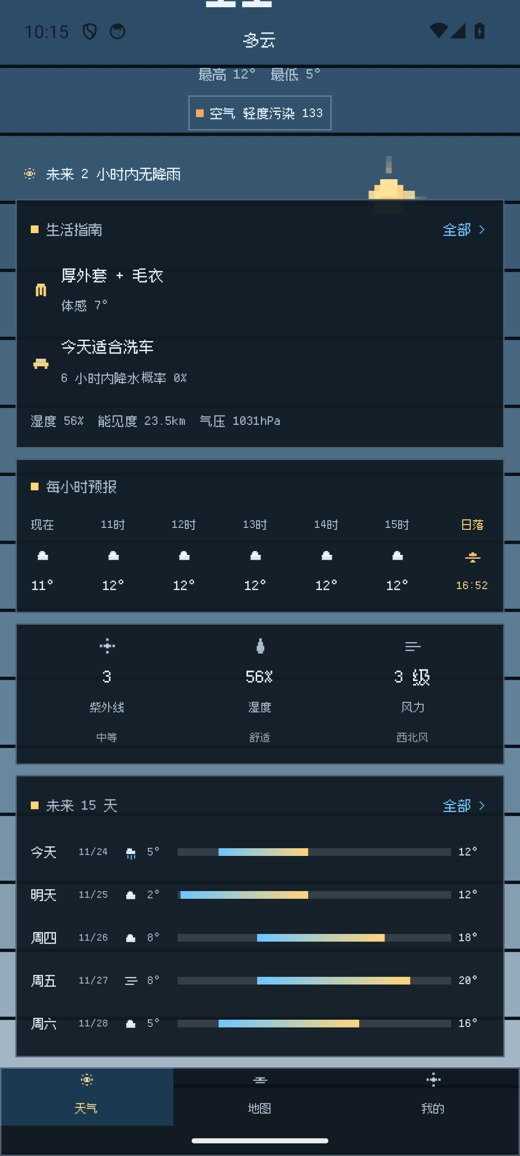
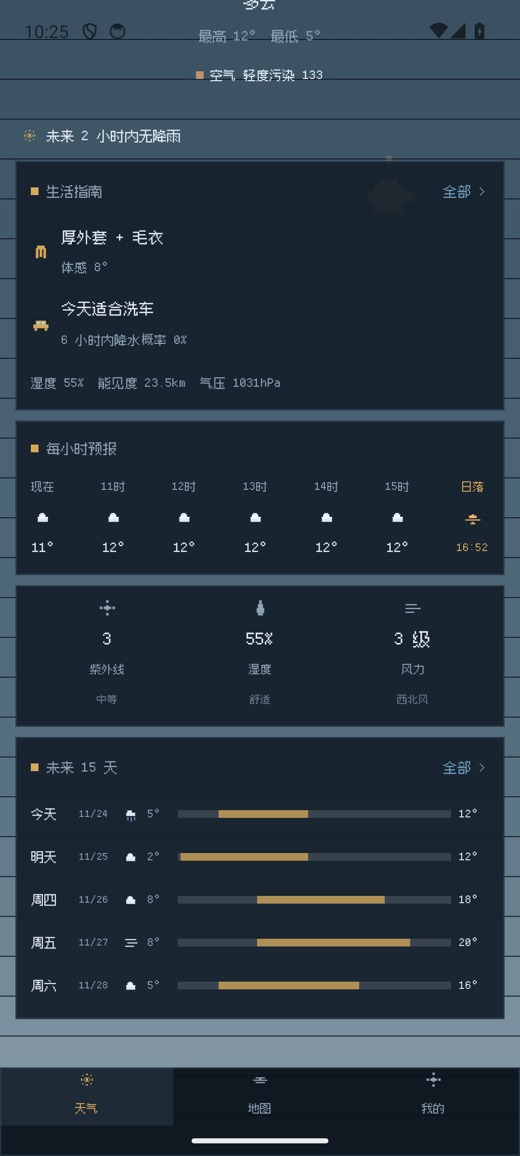
v0.11.1: 重做像素配色——单一强调色、低饱和语义色、去掉荧光青描边

Changed region(s): [[0.0, 0.0, 1.0, 1.0], [0.0, 0.2803, 0.0308, 0.3114]]

diff --git a/app/src/main/java/com/yoho/weather/PixelWeatherScreen.kt b/app/src/main/java/com/yoho/weather/PixelWeatherScreen.kt
@@ -29,7 +29,7 @@ import androidx.compose.ui.unit.sp
 
 @Composable
 fun PixelSky(group: String, isDay: Boolean, cloud: Int, warm: Float) {
-    val colors = skyColors(group, isDay)
+    val colors = pxSkyColors(group, isDay)
     val anim = rememberInfiniteTransition(label = "pxsky")
     val t by anim.animateFloat(
         initialValue = 0f,
@@ -42,7 +42,7 @@ fun PixelSky(group: String, isDay: Boolean, cloud: Int, warm: Float) {
         val w = size.width
         val h = size.height
         val cell = (w / 90f).coerceAtLeast(3f)   // 像素块尺寸
-        val bands = 18
+        val bands = 30
         val top = colors.first()
         val mid = colors[1]
         val bottom = colors.last()
@@ -64,7 +64,7 @@ fun PixelSky(group: String, isDay: Boolean, cloud: Int, warm: Float) {
                 val dc = lerp(if (f < 0.65f) lerp(top, mid, (f - 0.02f) / 0.65f) else c, c, 0.5f)
                 var x = if (i % 2 == 0) 0f else cell
                 while (x < w) {
-                    drawRect(dc.copy(alpha = 0.35f), Offset(x, y), Size(cell, cell))
+                    drawRect(dc.copy(alpha = 0.20f), Offset(x, y), Size(cell, cell))
                     x += cell * 2
                 }
             }
@@ -72,12 +72,12 @@ fun PixelSky(group: String, isDay: Boolean, cloud: Int, warm: Float) {
 
         // 暖光：靠近日落时底部泛橘
         if (warm > 0.02f) {
-            val warmColor = Color(0xFFFF9F43)
+            val warmColor = Color(0xFFD8A85A)
             var y = h * 0.55f
             var a = 0f
             while (y < h) {
                 a += 0.035f
-                drawRect(warmColor.copy(alpha = a * warm * 0.5f), Offset(0f, y), Size(w, h / bands))
+                drawRect(warmColor.copy(alpha = a * warm * 0.22f), Offset(0f, y), Size(w, h / bands))
                 y += h / bands
             }
         }
@@ -85,22 +85,22 @@ fun PixelSky(group: String, isDay: Boolean, cloud: Int, warm: Float) {
         // 太阳 / 月亮：像素方块 + 十字光芒
         val sx = w * 0.72f
         val sy = if (isDay) h * 0.16f else h * 0.13f
-        val sunColor = if (isDay) Color(0xFFFFD479) else Color(0xFFE7F0FF)
+        val sunColor = if (isDay) Color(0xFFD8A85A) else Color(0xFFDCE6F2)
         fun block(x: Float, y: Float, n: Int = 1, c: Color = sunColor, alpha: Float = 1f) {
             drawRect(c.copy(alpha = alpha), Offset(x, y), Size(cell * n, cell * n))
         }
         if (isDay) {
             block(sx, sy, 5)
-            block(sx + cell, sy - cell, 3, Color(0xFFFFE29B))
-            block(sx - cell, sy + cell, 2, Color(0xFFFFE29B), 0.9f)
-            block(sx + cell * 5, sy + cell, 2, Color(0xFFFFE29B), 0.85f)
+            block(sx + cell, sy - cell, 3, Color(0xFFE0BC7E))
+            block(sx - cell, sy + cell, 2, Color(0xFFE0BC7E), 0.9f)
+            block(sx + cell * 5, sy + cell, 2, Color(0xFFE0BC7E), 0.85f)
             for (i in 1..3) {
-                block(sx + cell * 2, sy - cell * (i + 1) - cell, 1, Color(0xFFFFE29B), 0.55f - i * 0.12f)
-                block(sx + cell * 2, sy + cell * 6 + (i - 1) * cell, 1, Color(0xFFFFE29B), 0.5f - i * 0.12f)
-                block(sx + cell * 6 + (i - 1) * cell, sy + cell * 2, 1, Color(0xFFFFE29B), 0.5f - i * 0.12f)
+                block(sx + cell * 2, sy - cell * (i + 1) - cell, 1, Color(0xFFE0BC7E), 0.55f - i * 0.12f)
+                block(sx + cell * 2, sy + cell * 6 + (i - 1) * cell, 1, Color(0xFFE0BC7E), 0.5f - i * 0.12f)
+                block(sx + cell * 6 + (i - 1) * cell, sy + cell * 2, 1, Color(0xFFE0BC7E), 0.5f - i * 0.12f)
             }
         } else {
-            block(sx, sy, 5, Color(0xFFE7F0FF))
+            block(sx, sy, 5, Color(0xFFDCE6F2))
             block(sx + cell * 3, sy + cell, 2, Color(0xFF0A121A))
             block(sx + cell, sy + cell * 3, 2, Color(0xFF0A121A))
             // 星星
@@ -233,10 +233,10 @@ fun PixelWeatherScreen(
                             verticalAlignment = Alignment.CenterVertically
                         ) {
                             val tone = when {
-                                air.aqi <= 50 -> Color(0xFF7BE495)
-                                air.aqi <= 100 -> Color(0xFFFFD479)
-                                air.aqi <= 150 -> Color(0xFFFFA45C)
-                                else -> Color(0xFFFF7B7B)
+                                air.aqi <= 50 -> Color(0xFF93B49C)
+                                air.aqi <= 100 -> Color(0xFFC9B27A)
+                                air.aqi <= 150 -> Color(0xFFBE9070)
+                                else -> Color(0xFFB87A76)
                             }
                             Box(Modifier.size(6.dp).background(tone))
                             Spacer(Modifier.width(5.dp))
@@ -374,7 +374,7 @@ fun PixelWeatherScreen(
                                         Modifier
                                             .weight(((d.hi - d.lo).toFloat() / span).coerceAtLeast(0.08f))
                                             .fillMaxHeight()
-                                            .background(Brush.horizontalGradient(listOf(PxBlue, PxAccent)))
+                                            .background(PxAccent.copy(alpha = 0.75f))
                                     )
                                     Spacer(Modifier.weight(((hi - d.hi).toFloat() / span).coerceAtLeast(0f) + 0.01f))
                                 }

diff --git a/app/src/main/java/com/yoho/weather/PixelUi.kt b/app/src/main/java/com/yoho/weather/PixelUi.kt
@@ -24,14 +24,14 @@ import androidx.compose.ui.unit.sp
 val PixelFont = FontFamily(Font(R.font.ark_pixel))
 
 // 像素风调色板：深底 + 荧光描边，拒绝圆角与模糊
-val PxPanel = Color(0xF2101A24)
-val PxPanelDeep = Color(0xE60A121A)
-val PxBorder = Color(0xFF7FD4FF)
-val PxBorderDim = Color(0x66A8C6DD)
-val PxText = Color(0xFFEAF4FF)
-val PxTextDim = Color(0xD8C6D8E8)
-val PxAccent = Color(0xFFFFD479)
-val PxBlue = Color(0xFF6EC6FF)
+val PxPanel = Color(0xF215212C)
+val PxPanelDeep = Color(0xF20E1721)
+val PxBorder = Color(0xFF3A4E62)
+val PxBorderDim = Color(0x803A4E62)
+val PxText = Color(0xFFE4ECF4)
+val PxTextDim = Color(0xFF8FA3B6)
+val PxAccent = Color(0xFFD8A85A)
+val PxBlue = Color(0xFF6E9DBF)
 
 /** 像素卡片：直角 + 1px 描边 + 内侧投影线，经典 8-bit 面板 */
 @Composable
@@ -118,11 +118,11 @@ fun PixelGlyph(kind: String, tint: Color, size: Dp = 18.dp) {
         }
         when (kind) {
             "sun" -> {
-                px(7, 7, 2, 2, Color(0xFFFFD479))
-                px(6, 6, 4, 1, Color(0xFFFFE29B))
-                px(6, 9, 4, 1, Color(0xFFFFE29B))
-                px(5, 7, 1, 2, Color(0xFFFFE29B))
-                px(10, 7, 1, 2, Color(0xFFFFE29B))
+                px(7, 7, 2, 2, PxAccent)
+                px(6, 6, 4, 1, PxAccent.copy(alpha = 0.62f))
+                px(6, 9, 4, 1, PxAccent.copy(alpha = 0.62f))
+                px(5, 7, 1, 2, PxAccent.copy(alpha = 0.62f))
+                px(10, 7, 1, 2, PxAccent.copy(alpha = 0.62f))
                 px(7, 3, 2, 1)
                 px(7, 12, 2, 1)
                 px(3, 7, 1, 2)
@@ -138,9 +138,9 @@ fun PixelGlyph(kind: String, tint: Color, size: Dp = 18.dp) {
             "rain" -> {
                 px(4, 7, 8, 3, Color(0xFFDCE9F5))
                 px(5, 5, 4, 2, Color(0xFFEDF6FF))
-                px(5, 11, 1, 3, Color(0xFF6EC6FF))
-                px(8, 11, 1, 4, Color(0xFF6EC6FF))
-                px(11, 11, 1, 3, Color(0xFF6EC6FF))
+                px(5, 11, 1, 3, PxBlue)
+                px(8, 11, 1, 4, PxBlue)
+                px(11, 11, 1, 3, PxBlue)
             }
             "snow" -> {
                 px(4, 7, 8, 3, Color(0xFFDCE9F5))
@@ -149,10 +149,10 @@ fun PixelGlyph(kind: String, tint: Color, size: Dp = 18.dp) {
             }
             "storm" -> {
                 px(4, 6, 8, 3, Color(0xFFB9C9D8))
-                px(7, 9, 2, 3, Color(0xFFFFD479))
-                px(6, 12, 2, 2, Color(0xFFFFD479))
-                px(5, 9, 1, 2, Color(0xFF6EC6FF))
-                px(11, 9, 1, 3, Color(0xFF6EC6FF))
+                px(7, 9, 2, 3, PxAccent)
+                px(6, 12, 2, 2, PxAccent)
+                px(5, 9, 1, 2, PxBlue)
+                px(11, 9, 1, 3, PxBlue)
             }
             "fog" -> {
                 px(3, 5, 10, 1, Color(0xFFDCE9F5))
@@ -252,7 +252,7 @@ fun PixelBar(tab: Int, onTab: (Int) -> Unit) {
                     Modifier
                         .weight(1f)
                         .fillMaxHeight()
-                        .background(if (on) Color(0xFF1B3A52) else Color.Transparent)
+                        .background(if (on) Color(0xFF1E2A36) else Color.Transparent)
                         .clickable { onTab(i) },
                     horizontalAlignment = Alignment.CenterHorizontally,
                     verticalArrangement = Arrangement.Center
@@ -269,4 +269,25 @@ fun PixelBar(tab: Int, onTab: (Int) -> Unit) {
             }
         }
     }
+}
+
+
+/** 像素天空配色：低饱和、三阶以内，避免多色打架 */
+fun pxSkyColors(group: String, isDay: Boolean): List<Color> {
+    val day = when (group) {
+        "clear" -> listOf(0xFF2C4A66, 0xFF44688A, 0xFF7FA0B8)
+        "few" -> listOf(0xFF334F6A, 0xFF4E7188, 0xFF89A6BC)
+        "cloudy" -> listOf(0xFF3B5163, 0xFF56707F, 0xFF93A5B2)
+        "rain" -> listOf(0xFF324656, 0xFF48606F, 0xFF7C8F9B)
+        "snow" -> listOf(0xFF3D5566, 0xFF5E7688, 0xFFA6B6C2)
+        "storm" -> listOf(0xFF28323D, 0xFF3C4956, 0xFF65727E)
+        else -> listOf(0xFF3B5163, 0xFF56707F, 0xFF93A5B2)
+    }
+    val night = when (group) {
+        "clear" -> listOf(0xFF0B1420, 0xFF132132, 0xFF243648)
+        "rain" -> listOf(0xFF0A1018, 0xFF141C26, 0xFF232D38)
+        "storm" -> listOf(0xFF080C12, 0xFF11161E, 0xFF1D232C)
+        else -> listOf(0xFF0B131C, 0xFF141F2B, 0xFF22303D)
+    }
+    return (if (isDay) day else night).map { Color(it) }
 }
